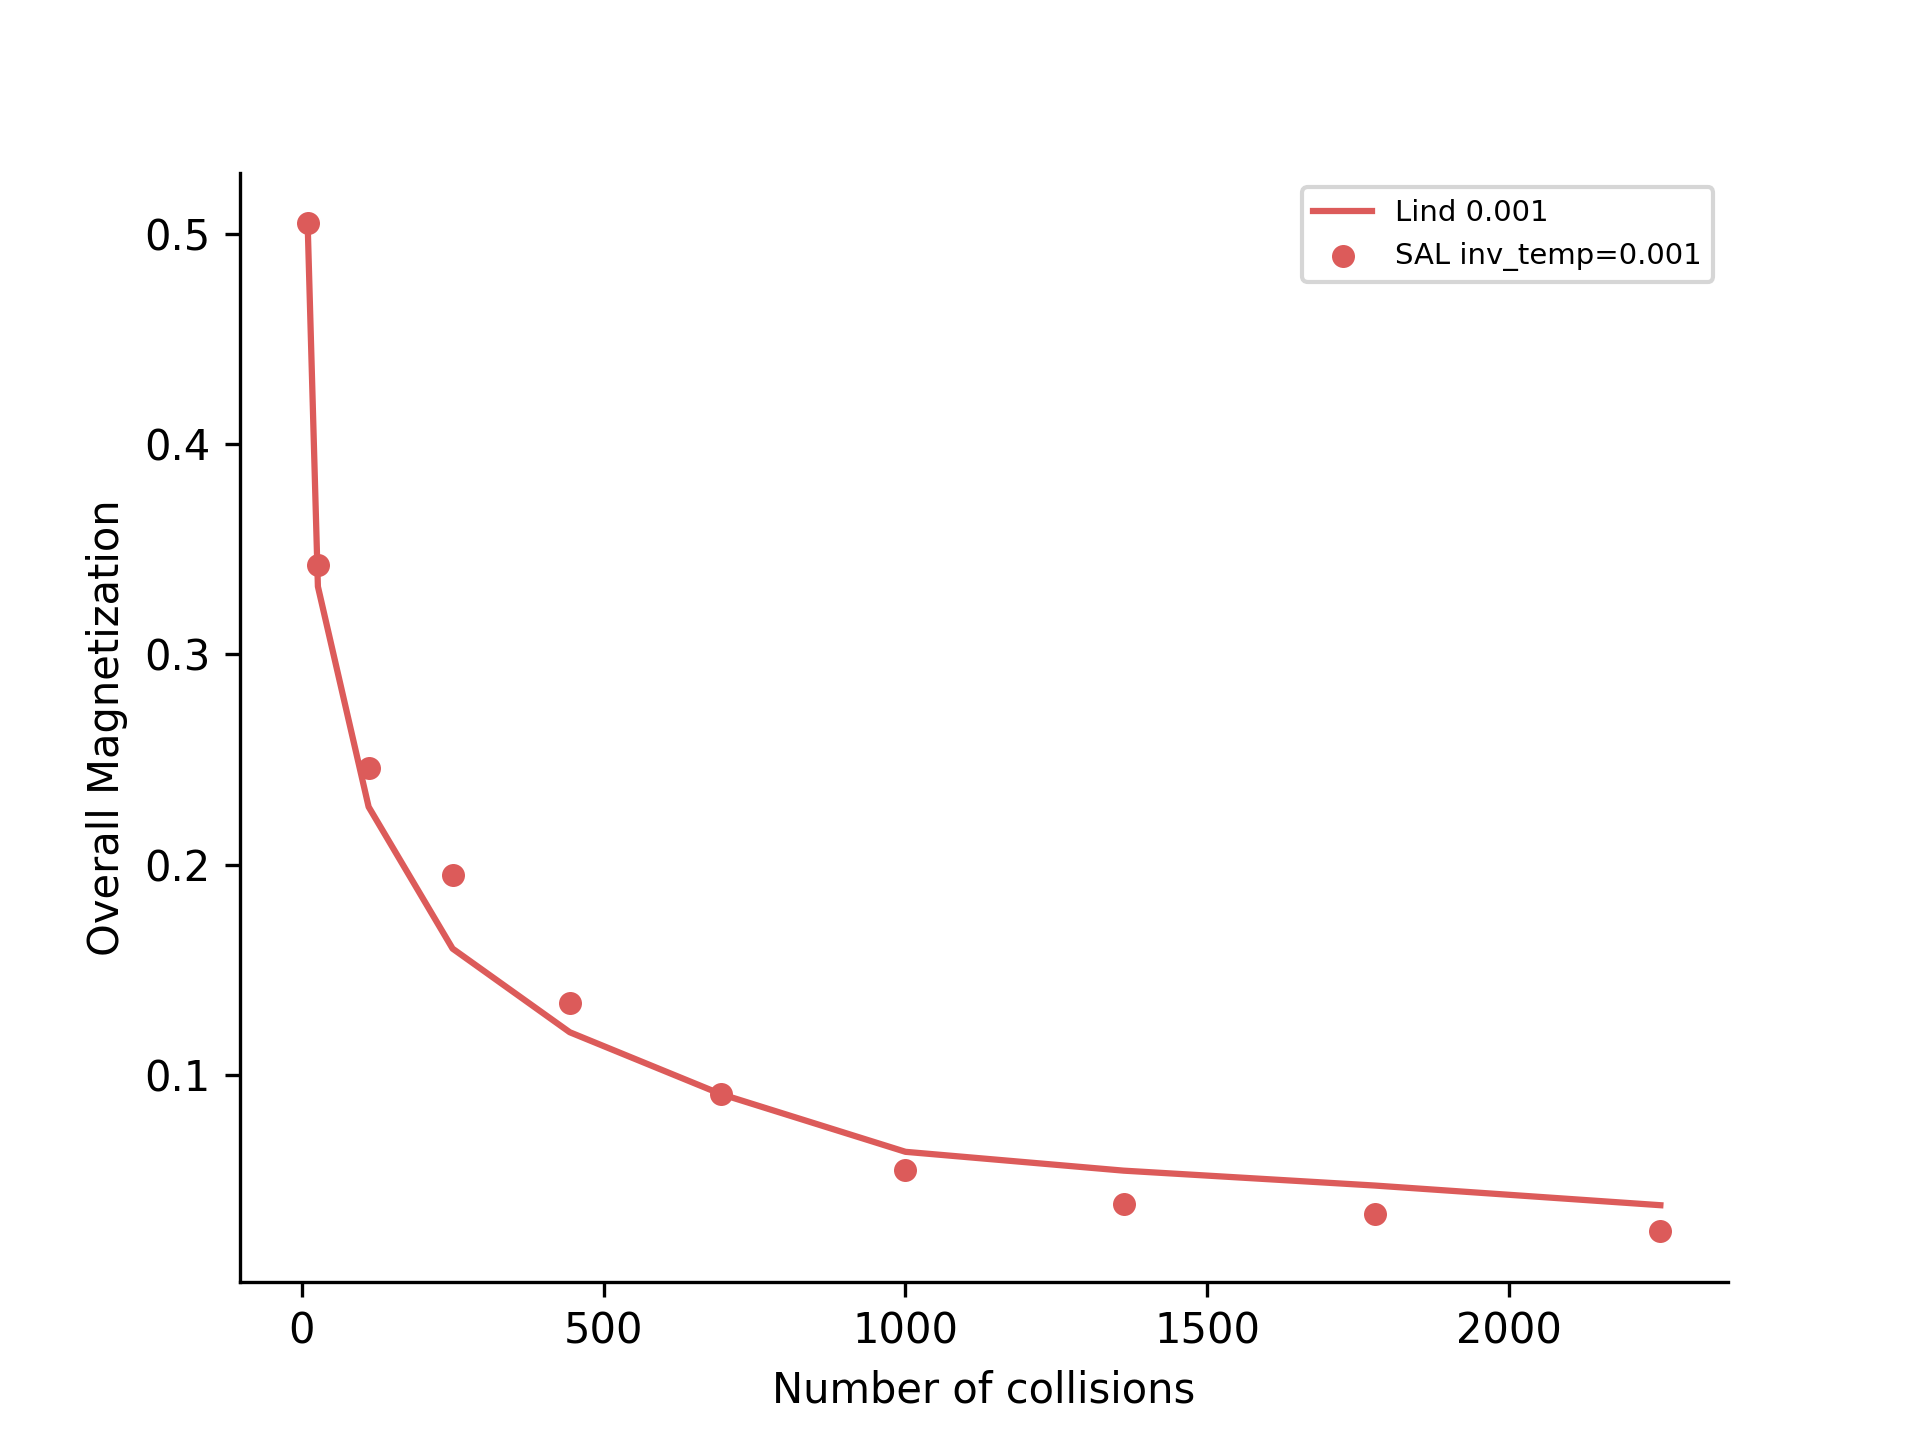
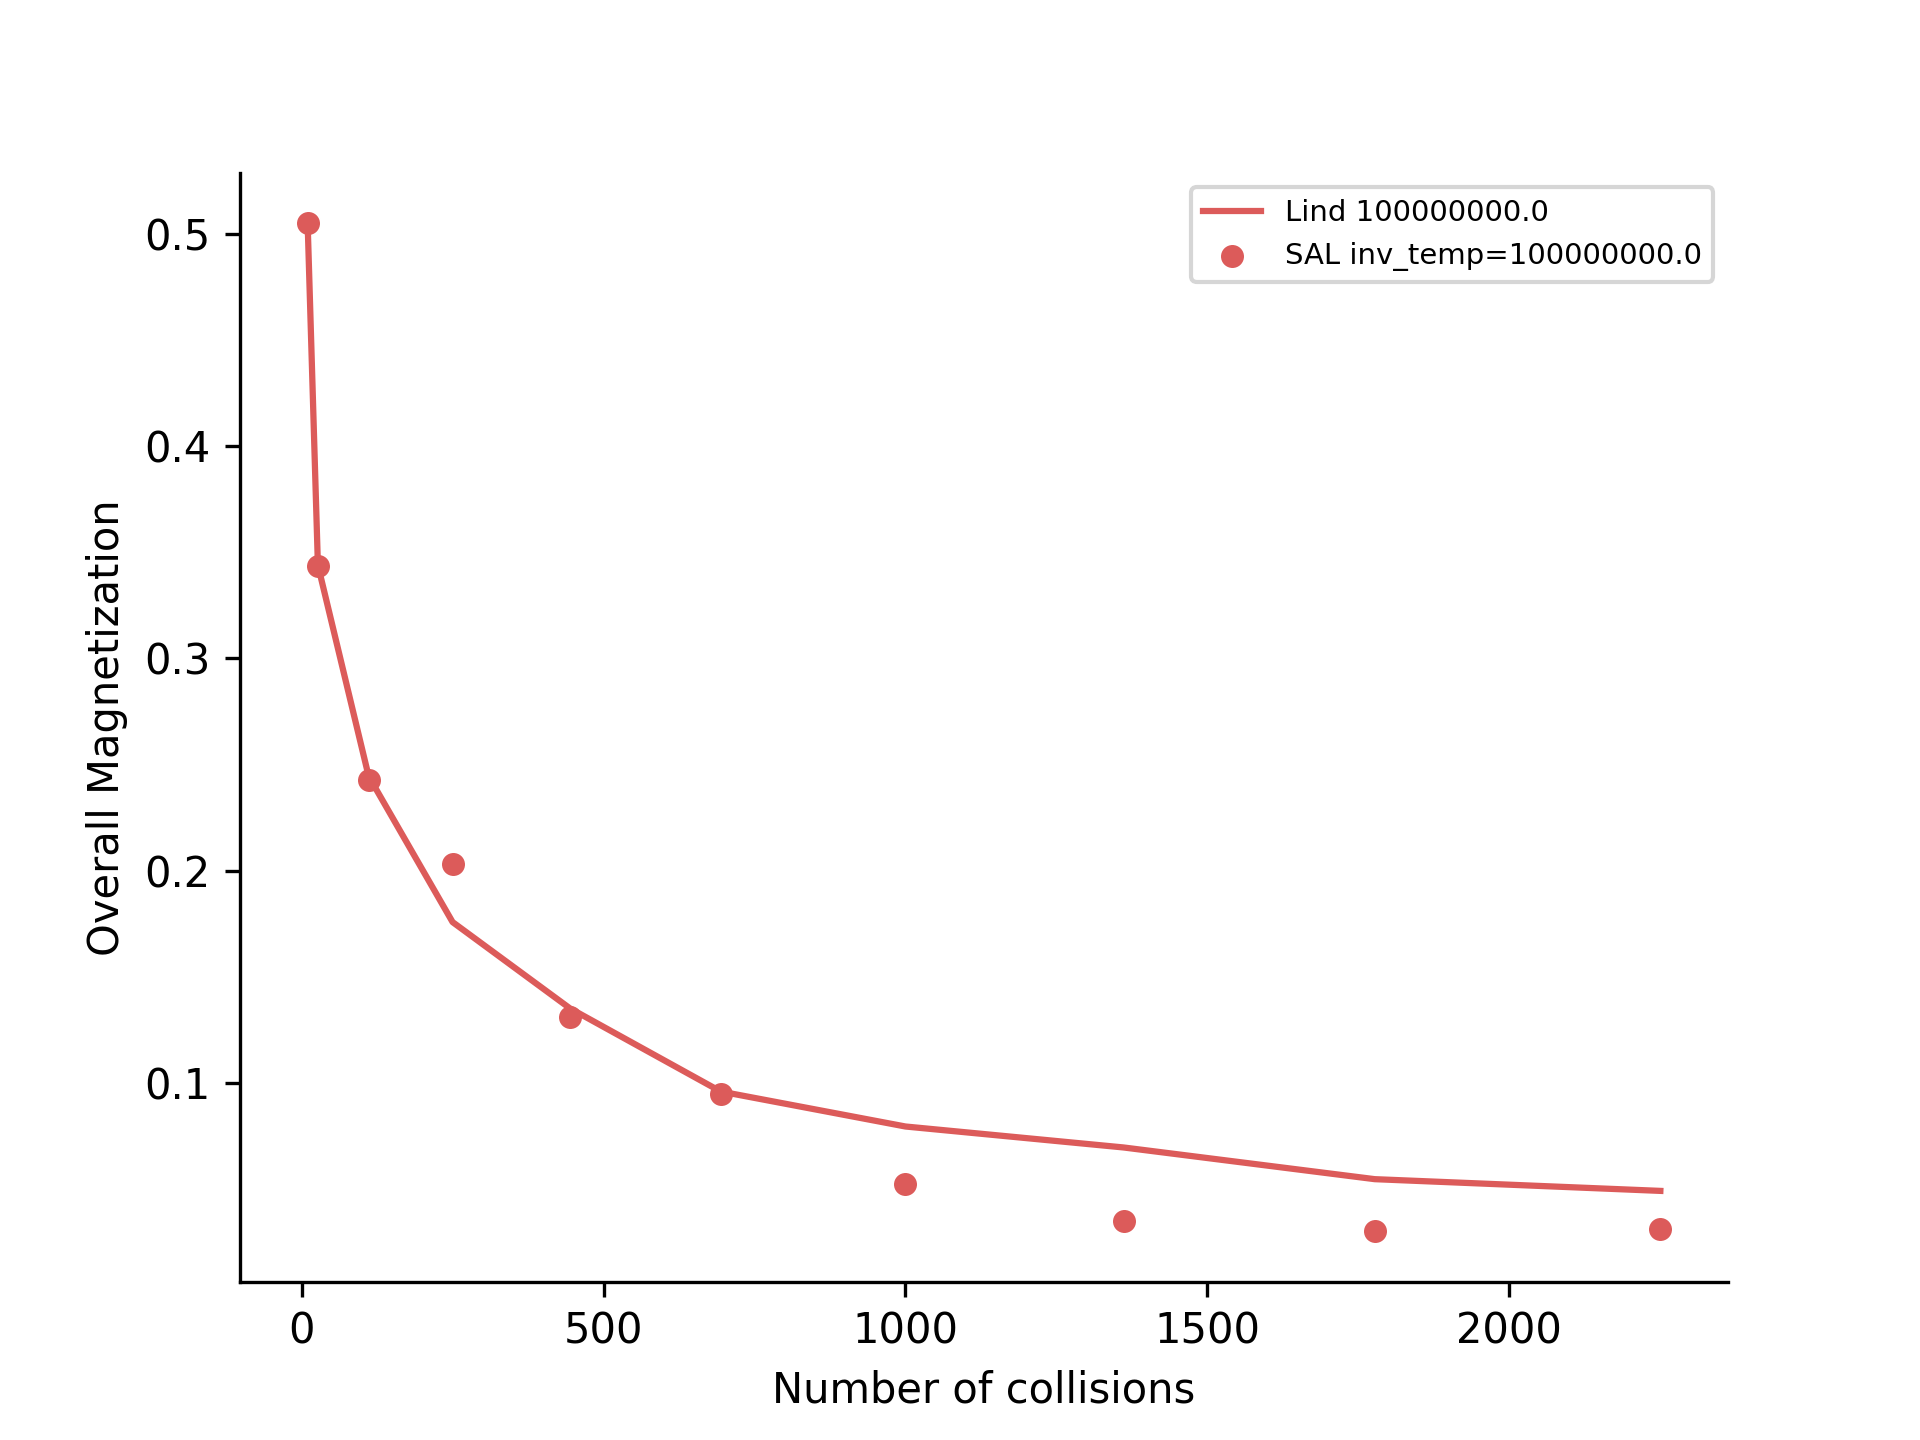
1e8 temp

diff --git a/ising/nonmarkovian/swap/distance.py b/ising/nonmarkovian/swap/distance.py
@@ -35,7 +35,7 @@ EPS = 1
 # INV_TEMP = 1
 
 INV_TEMPS = [0.1, 0.5, 0.6, 0.8, 1]
-INV_TEMPS = [0.001]
+INV_TEMPS = [1e8]
 
 H_VAL = -0.1
 COLORS = ["#DC5B5A", "#625FE1", "#94E574", "#2A2A2A", "#D575EF"]
